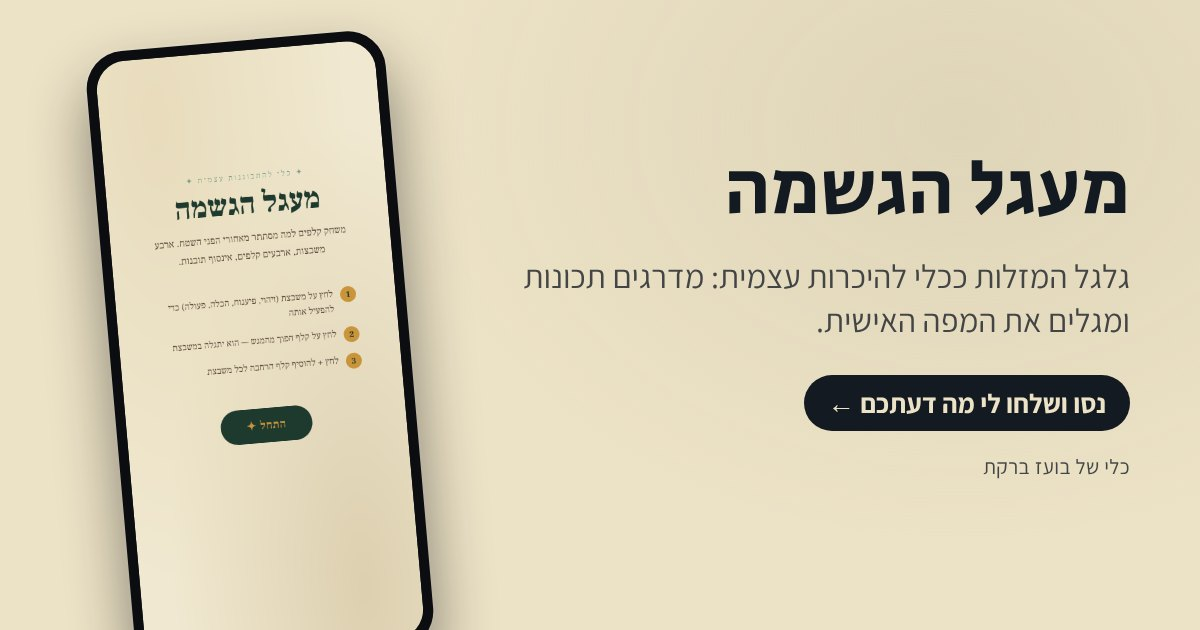
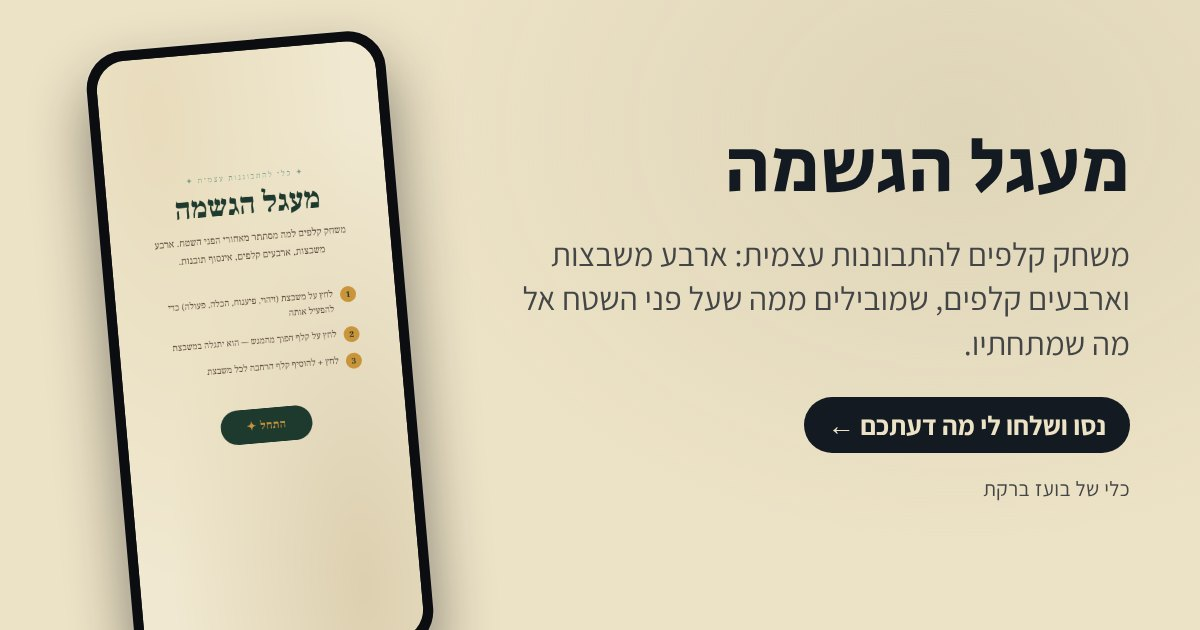
כרטיס כניסה: מה הכלי מציע, איך משתמשים ובחירת רמה (חדש / מקצועי)
Claude-Session: https://claude.ai/code/session_01VYgfkafH72jgPhrCjD5LZ5

Changed region(s): [[0.4317, 0.3921, 0.9558, 0.7841], [0.5858, 0.2111, 0.9558, 0.3619]]

diff --git a/index.html b/index.html
@@ -6,9 +6,9 @@
 <meta name="apple-mobile-web-app-capable" content="yes">
 <meta name="apple-mobile-web-app-title" content="מעגל הגשמה">
 <title>מעגל הגשמה</title>
-<meta name="description" content="גלגל המזלות ככלי להיכרות עצמית: מדרגים תכונות ומגלים את המפה האישית.">
+<meta name="description" content="משחק קלפים להתבוננות עצמית: ארבע משבצות וארבעים קלפים, שמובילים ממה שעל פני השטח אל מה שמתחתיו.">
 <meta property="og:title" content="מעגל הגשמה">
-<meta property="og:description" content="גלגל המזלות ככלי להיכרות עצמית: מדרגים תכונות ומגלים את המפה האישית.">
+<meta property="og:description" content="משחק קלפים להתבוננות עצמית: ארבע משבצות וארבעים קלפים, שמובילים ממה שעל פני השטח אל מה שמתחתיו.">
 <meta property="og:type" content="website">
 <meta property="og:url" content="https://boazbareket1.github.io/maagal-hagashama/">
 <meta property="og:image" content="https://boazbareket1.github.io/maagal-hagashama/og.jpg">
